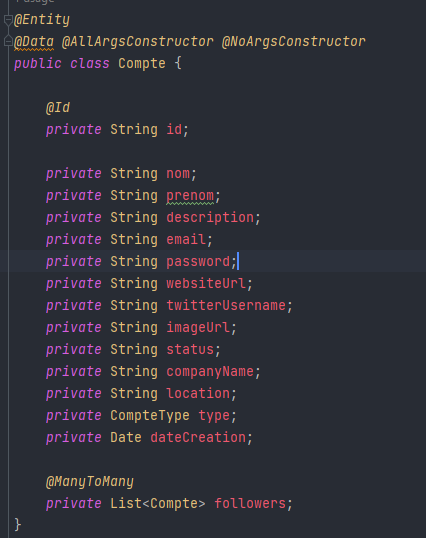
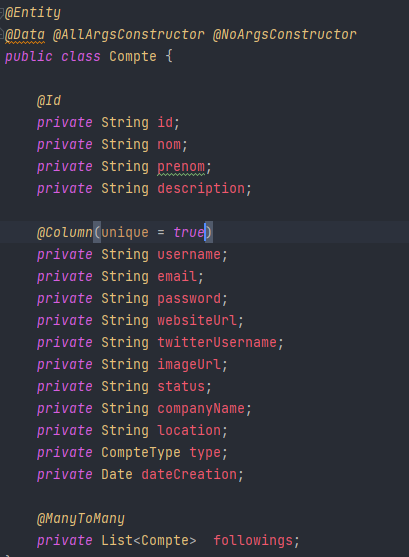
DTO

Changed region(s): [[0.0, 0.0, 0.8802, 0.9814], [0.0293, 0.9517, 0.0587, 0.9814], [0.0, 0.9814, 0.0293, 1.0]]

diff --git a/ms-compte/src/main/java/org/example/mscompte/dto/CompteDetailResponseDTO.java b/ms-compte/src/main/java/org/example/mscompte/dto/CompteDetailResponseDTO.java
@@ -1,4 +1,4 @@
-package org.example.mscompte.entities;
+package org.example.mscompte.dto;
 
 import lombok.AllArgsConstructor;
 import lombok.Data;
@@ -13,20 +13,14 @@ import java.util.Date;
 import java.util.List;
 
 
-@Entity
 @Data @AllArgsConstructor @NoArgsConstructor
-public class Compte {
-
-    @Id
+public class CompteDetailResponseDTO {
     private String id;
     private String nom;
     private String prenom;
     private String description;
-
-    @Column(unique = true)
     private String username;
     private String email;
-    private String password;
     private String websiteUrl;
     private String twitterUsername;
     private String imageUrl;
@@ -36,6 +30,7 @@ public class Compte {
     private CompteType type;
     private Date dateCreation;
 
-    @ManyToMany
-    private List<Compte>  followings;
+    private int nbrFollowers;
+    private int nbrFollowings;
+
 }

diff --git a/ms-compte/src/main/java/org/example/mscompte/dto/CompteResponseDTO.java b/ms-compte/src/main/java/org/example/mscompte/dto/CompteResponseDTO.java
@@ -1,4 +1,4 @@
-package org.example.mscompte.entities;
+package org.example.mscompte.dto;
 
 import lombok.AllArgsConstructor;
 import lombok.Data;
@@ -13,29 +13,12 @@ import java.util.Date;
 import java.util.List;
 
 
-@Entity
 @Data @AllArgsConstructor @NoArgsConstructor
-public class Compte {
-
-    @Id
+public class CompteResponseDTO {
     private String id;
     private String nom;
     private String prenom;
     private String description;
-
-    @Column(unique = true)
     private String username;
-    private String email;
-    private String password;
-    private String websiteUrl;
-    private String twitterUsername;
-    private String imageUrl;
-    private String status;
-    private String companyName;
     private String location;
-    private CompteType type;
-    private Date dateCreation;
-
-    @ManyToMany
-    private List<Compte>  followings;
 }

diff --git a/ms-compte/src/main/java/org/example/mscompte/dto/CompteRequestDTO.java b/ms-compte/src/main/java/org/example/mscompte/dto/CompteRequestDTO.java
@@ -1,4 +1,4 @@
-package org.example.mscompte.entities;
+package org.example.mscompte.dto;
 
 import lombok.AllArgsConstructor;
 import lombok.Data;
@@ -13,17 +13,12 @@ import java.util.Date;
 import java.util.List;
 
 
-@Entity
 @Data @AllArgsConstructor @NoArgsConstructor
-public class Compte {
+public class CompteRequestDTO {
 
-    @Id
-    private String id;
     private String nom;
     private String prenom;
     private String description;
-
-    @Column(unique = true)
     private String username;
     private String email;
     private String password;
@@ -34,8 +29,4 @@ public class Compte {
     private String companyName;
     private String location;
     private CompteType type;
-    private Date dateCreation;
-
-    @ManyToMany
-    private List<Compte>  followings;
 }

diff --git a/ms-compte/README.md b/ms-compte/README.md
@@ -23,4 +23,27 @@
     <div  align="center">
         <img src="images/img_1.png" alt="">    
     </div>
-   
+
+
+### DTO :
+
+- `CompteRequestDTO` [:point_right:](./src/main/java/org/example/mscompte/dto/CompteRequestDTO.java) :
+
+   <div  align="center">
+        <img src="images/img_2.png" alt="">
+    </div>
+
+- `CompteResponseDTO` [:point_right:](./src/main/java/org/example/mscompte/dto/CompteResponseDTO.java) : les informations nécessaires des comptes 
+
+   <div  align="center">
+        <img src="images/img_3.png" alt="">
+    </div>
+
+- `CompteDetailResponseDTO` [:point_right:](./src/main/java/org/example/mscompte/dto/CompteDetailResponseDTO.java) : les informations en détail d'un compte
+
+   <div  align="center">
+        <img src="images/img_4.png" alt="">    
+    </div>
+
+
+
